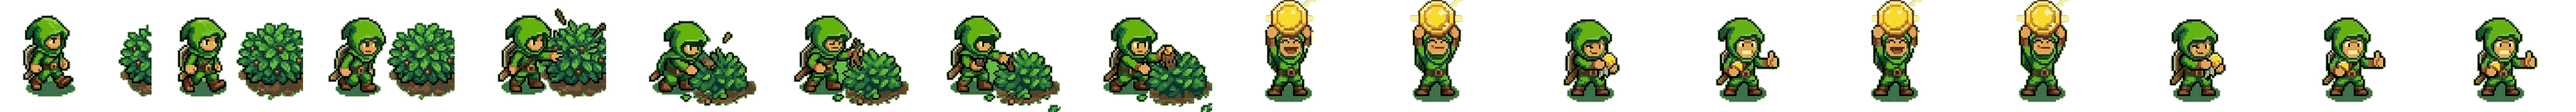
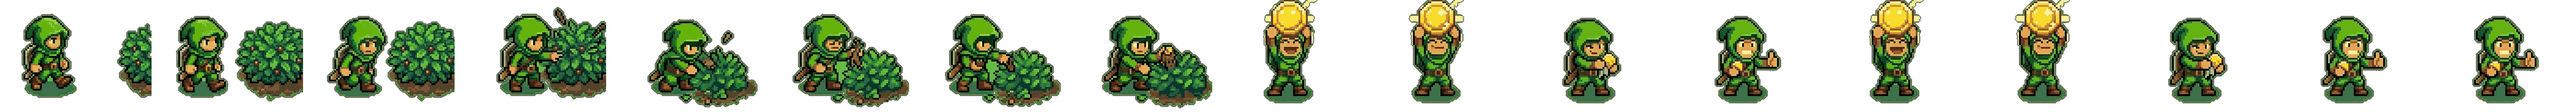
Wipe stray corner grass on forage frames 5-7 and fade the splash sprite edges with a soft RGBA overlay.

diff --git a/src/app/globals.css b/src/app/globals.css
@@ -1939,12 +1939,7 @@ vercel-live-feedback,
   position: relative;
   display: block;
   width: 100%;
-  filter:
-    drop-shadow(0 10px 4px rgb(0 0 0 / 1))
-    drop-shadow(0 22px 12px rgb(0 0 0 / 1))
-    drop-shadow(0 44px 28px rgb(0 0 0 / 0.96))
-    drop-shadow(0 80px 56px rgb(0 0 0 / 0.88))
-    drop-shadow(0 120px 90px rgb(0 0 0 / 0.7));
+  filter: none;
 }
 
 .forager-forage-sprite-hero .forager-forage-shadow::before,
@@ -1952,42 +1947,69 @@ vercel-live-feedback,
   content: '';
   position: absolute;
   pointer-events: none;
-  z-index: 0;
   border-radius: 50%;
 }
 
 .forager-forage-sprite-hero .forager-forage-shadow::before {
-  left: 6%;
-  right: 6%;
-  bottom: -4%;
-  height: 38%;
+  z-index: 0;
+  left: 10%;
+  right: 8%;
+  bottom: -6%;
+  height: 28%;
   background: radial-gradient(
-    ellipse at center,
-    rgb(0 0 0 / 1) 0%,
-    rgb(0 0 0 / 0.82) 38%,
-    rgb(0 0 0 / 0.4) 62%,
-    transparent 78%
+    ellipse at 50% 42%,
+    rgb(0 0 0 / 0.42) 0%,
+    rgb(0 0 0 / 0.18) 44%,
+    rgb(0 0 0 / 0.05) 70%,
+    transparent 86%
   );
 }
 
 .forager-forage-sprite-hero .forager-forage-shadow::after {
-  left: 18%;
-  right: 18%;
-  bottom: 2%;
-  height: 22%;
+  z-index: 2;
+  inset: -6% -8% -14%;
+  height: auto;
   background: radial-gradient(
-    ellipse at center,
-    rgb(0 0 0 / 1),
-    rgb(0 0 0 / 0.55) 50%,
-    transparent 74%
+    ellipse 78% 72% at 52% 46%,
+    transparent 42%,
+    rgb(0 0 0 / 0.1) 64%,
+    rgb(0 0 0 / 0.38) 84%,
+    rgb(0 0 0 / 0.72) 100%
   );
 }
 
 .forager-forage-sprite-hero .forager-forage-frame {
   overflow: hidden;
   background: transparent;
-  -webkit-mask-image: none;
-  mask-image: none;
+  -webkit-mask-image: radial-gradient(
+    ellipse 88% 84% at 52% 48%,
+    #000 56%,
+    rgb(0 0 0 / 0.78) 74%,
+    rgb(0 0 0 / 0.28) 90%,
+    transparent 100%
+  );
+  mask-image: radial-gradient(
+    ellipse 88% 84% at 52% 48%,
+    #000 56%,
+    rgb(0 0 0 / 0.78) 74%,
+    rgb(0 0 0 / 0.28) 90%,
+    transparent 100%
+  );
+}
+
+.forager-forage-sprite-hero .forager-forage-frame::after {
+  content: '';
+  position: absolute;
+  inset: 0;
+  z-index: 2;
+  pointer-events: none;
+  background: radial-gradient(
+    ellipse 82% 78% at 52% 46%,
+    transparent 38%,
+    rgb(0 0 0 / 0.08) 62%,
+    rgb(0 0 0 / 0.34) 86%,
+    rgb(0 0 0 / 0.7) 100%
+  );
 }
 
 .forager-forage-rays {

diff --git a/src/lib/forage-sprite.ts b/src/lib/forage-sprite.ts
@@ -2,7 +2,7 @@ import { withBasePath } from './base-path';
 
 /** Keyed pixel strip for splash (walk / forage / gold, no grass box). */
 export const FORAGE_SPRITE_SRC = withBasePath(
-  '/assets/pics/forager-forage-strip.png',
+  '/assets/pics/forager-forage-strip.png?v=edge3',
 );
 
 export const FORAGE_SPRITE_FRAME_COUNT = 17;

diff --git a/scripts/clean-forage-edges.py b/scripts/clean-forage-edges.py
@@ -1,0 +1,244 @@
+"""Wipe stray corner grass on frames 5-7 and feather strip silhouettes.
+
+Works from the already-keyed strip (does not re-chroma-key from source).
+Run once per keyed strip — a second pass will keep eating the silhouette.
+"""
+
+from __future__ import annotations
+
+from collections import deque
+from pathlib import Path
+
+import numpy as np
+from PIL import Image
+
+ROOT = Path(__file__).resolve().parents[1]
+SRC = ROOT / "public" / "assets" / "pics" / "forager-forage-strip.png"
+PREVIEW_DIR = ROOT / "public" / "assets" / "pics" / "_forage-key-preview"
+
+FRAME_W = 330
+FRAME_H = 246
+IN_FEATHER = 2.6
+OUT_FEATHER = 3.4
+CORNER_FRAMES = (5, 6, 7)
+
+
+def rgb_to_hsv(rgb: np.ndarray) -> tuple[np.ndarray, np.ndarray, np.ndarray]:
+    rgb_f = rgb.astype(np.float32) / 255.0
+    r, g, b = rgb_f[..., 0], rgb_f[..., 1], rgb_f[..., 2]
+    maxc = np.maximum(np.maximum(r, g), b)
+    minc = np.minimum(np.minimum(r, g), b)
+    delta = np.maximum(maxc - minc, 1e-6)
+    h = np.zeros_like(maxc)
+    mask_r = (maxc == r) & (maxc != minc)
+    mask_g = (maxc == g) & (maxc != minc)
+    mask_b = (maxc == b) & (maxc != minc)
+    h[mask_r] = ((g[mask_r] - b[mask_r]) / delta[mask_r]) % 6.0
+    h[mask_g] = (b[mask_g] - r[mask_g]) / delta[mask_g] + 2.0
+    h[mask_b] = (r[mask_b] - g[mask_b]) / delta[mask_b] + 4.0
+    h = h * 60.0
+    s = np.where(maxc <= 1e-6, 0.0, (maxc - minc) / np.maximum(maxc, 1e-6))
+    return h, s, maxc
+
+
+def gold_mask(rgb: np.ndarray) -> np.ndarray:
+    r = rgb[..., 0].astype(np.float32)
+    g = rgb[..., 1].astype(np.float32)
+    b = rgb[..., 2].astype(np.float32)
+    h, s, v = rgb_to_hsv(rgb)
+    return (
+        (h >= 22.0)
+        & (h <= 58.0)
+        & (s >= 0.34)
+        & (v >= 0.42)
+        & (r >= g - 4)
+        & (r > b + 16)
+        & (g > b + 6)
+    )
+
+
+def hood_core_mask(rgb: np.ndarray) -> np.ndarray:
+    r = rgb[..., 0].astype(np.float32)
+    g = rgb[..., 1].astype(np.float32)
+    b = rgb[..., 2].astype(np.float32)
+    h, s, v = rgb_to_hsv(rgb)
+    return (
+        (h >= 62.0)
+        & (h <= 155.0)
+        & (v >= 0.08)
+        & (v <= 0.60)
+        & (s >= 0.14)
+        & (s <= 0.86)
+        & (g + 6 >= r)
+        & (g > b + 2)
+        & (g < 176)
+        & ((g < 168) | (v <= 0.52))
+    )
+
+
+def skin_mask(rgb: np.ndarray) -> np.ndarray:
+    h, s, v = rgb_to_hsv(rgb)
+    return (h >= 14.0) & (h <= 48.0) & (s >= 0.22) & (v >= 0.28) & (v <= 0.92)
+
+
+def protect_core(rgb: np.ndarray) -> np.ndarray:
+    _, _, v = rgb_to_hsv(rgb)
+    return gold_mask(rgb) | hood_core_mask(rgb) | skin_mask(rgb) | (v < 0.16)
+
+
+def label_components(keep: np.ndarray) -> tuple[np.ndarray, list[tuple[int, int, int, int, int]]]:
+    height, width = keep.shape
+    labels = np.zeros((height, width), dtype=np.int32)
+    boxes: list[tuple[int, int, int, int, int]] = [(0, 0, 0, 0, 0)]
+    next_id = 1
+    for y in range(height):
+        for x in range(width):
+            if not keep[y, x] or labels[y, x] != 0:
+                continue
+            queue = deque([(y, x)])
+            labels[y, x] = next_id
+            count = 0
+            minx = maxx = x
+            miny = maxy = y
+            while queue:
+                cy, cx = queue.popleft()
+                count += 1
+                minx = min(minx, cx)
+                maxx = max(maxx, cx)
+                miny = min(miny, cy)
+                maxy = max(maxy, cy)
+                for ny, nx in ((cy - 1, cx), (cy + 1, cx), (cy, cx - 1), (cy, cx + 1)):
+                    if ny < 0 or nx < 0 or ny >= height or nx >= width:
+                        continue
+                    if not keep[ny, nx] or labels[ny, nx] != 0:
+                        continue
+                    labels[ny, nx] = next_id
+                    queue.append((ny, nx))
+            boxes.append((minx, miny, maxx, maxy, count))
+            next_id += 1
+    return labels, boxes
+
+
+def wipe_corner_blotch(frame: np.ndarray, index: int) -> np.ndarray:
+    """Remove leftover lime clumps in the far corner, away from the shrub."""
+    out = frame.copy()
+    rgb = out[..., :3].astype(np.float32)
+    alpha = out[..., 3]
+    keep = alpha > 16
+    r, g, b = rgb[..., 0], rgb[..., 1], rgb[..., 2]
+    green = keep & (g > r + 8) & (g > b + 10) & (g > 70)
+
+    yy, xx = np.indices(keep.shape)
+    # Isolated island in the bottom-right (frames 6 and 7).
+    labels, boxes = label_components(keep)
+    drop = np.zeros_like(keep)
+    for label_id, (minx, miny, maxx, maxy, count) in enumerate(boxes):
+        if label_id == 0:
+            continue
+        cx = (minx + maxx) / 2.0
+        cy = (miny + maxy) / 2.0
+        cornerish = minx >= 275 and miny >= 200 and count < 900
+        far = cx >= 290 and cy >= 215 and count < 1200
+        if cornerish or far:
+            drop[labels == label_id] = True
+
+    # Frame 5's blotch is still bridged to the dirt — snip the hanging lime.
+    hanging = np.zeros_like(keep)
+    if index == 5:
+        hanging = green & (xx >= 268) & (yy >= 219)
+    elif index in (6, 7):
+        hanging = green & (xx >= 292) & (yy >= 220)
+
+    kill = drop | hanging
+    out[kill, 3] = 0
+    out[kill, :3] = 0
+    print(
+        f"frame {index:02d} wiped {int(kill.sum())} px "
+        f"(island {int(drop.sum())}, hanging {int(hanging.sum())})"
+    )
+    return out
+
+
+def distance_field(seed: np.ndarray, radius: float) -> np.ndarray:
+    height, width = seed.shape
+    inf = height + width + 8
+    dist = np.full((height, width), inf, dtype=np.float32)
+    dist[seed] = 0.0
+    queue = deque(map(tuple, np.argwhere(seed)))
+    while queue:
+        y, x = queue.popleft()
+        d = dist[y, x]
+        if d >= radius:
+            continue
+        for ny, nx in ((y - 1, x), (y + 1, x), (y, x - 1), (y, x + 1)):
+            if ny < 0 or nx < 0 or ny >= height or nx >= width:
+                continue
+            nd = d + 1.0
+            if nd < dist[ny, nx] and nd <= radius:
+                dist[ny, nx] = nd
+                queue.append((ny, nx))
+    return dist
+
+
+def feather_frame(frame: np.ndarray) -> np.ndarray:
+    rgb = frame[..., :3].copy()
+    alpha_in = frame[..., 3]
+    keep = alpha_in >= 72
+    protect = protect_core(rgb) & (alpha_in >= 40)
+
+    dist_out = distance_field(keep, OUT_FEATHER)
+    dist_in = distance_field(~keep, IN_FEATHER)
+
+    fade_out = np.clip(1.0 - dist_out / OUT_FEATHER, 0.0, 1.0)
+    fade_in = np.clip(dist_in / IN_FEATHER, 0.0, 1.0)
+    fade_in[protect] = 1.0
+    fade_in[~keep] = 0.0
+
+    alpha = np.zeros(keep.shape, dtype=np.float32)
+    alpha[keep] = 255.0 * fade_in[keep]
+    fringe = (~keep) & (dist_out < OUT_FEATHER)
+    alpha[fringe] = 255.0 * fade_out[fringe]
+    alpha[protect] = 255.0
+    alpha = np.clip(np.round(alpha), 0, 255).astype(np.uint8)
+
+    out_rgb = rgb.astype(np.float32)
+    r, g, b = out_rgb[..., 0], out_rgb[..., 1], out_rgb[..., 2]
+    max_rb = np.maximum(r, b)
+    fringe_px = (alpha > 8) & (alpha < 220) & ~protect
+    spill = fringe_px & (g > max_rb + 18)
+    out_rgb[..., 1] = np.where(spill, max_rb + (g - max_rb) * 0.28, g)
+    out_rgb[alpha < 8] = 0
+    return np.dstack([np.clip(out_rgb, 0, 255).astype(np.uint8), alpha])
+
+
+def main() -> None:
+    image = Image.open(SRC).convert("RGBA")
+    arr = np.array(image)
+    height, width = arr.shape[:2]
+    if width % FRAME_W != 0 or height != FRAME_H:
+        raise SystemExit(f"unexpected strip size {width}x{height}")
+
+    frames = []
+    count = width // FRAME_W
+    for index in range(count):
+        frame = arr[:, index * FRAME_W : (index + 1) * FRAME_W]
+        if index in CORNER_FRAMES:
+            frame = wipe_corner_blotch(frame, index)
+        frames.append(feather_frame(frame))
+
+    strip = np.concatenate(frames, axis=1)
+    out = Image.fromarray(strip, mode="RGBA")
+    out.save(SRC, optimize=True)
+    PREVIEW_DIR.mkdir(exist_ok=True)
+    bg = np.full((FRAME_H, FRAME_W, 3), 12, dtype=np.uint8)
+    for index, frame in enumerate(frames):
+        Image.fromarray(frame, mode="RGBA").save(PREVIEW_DIR / f"live-{index:02d}.png")
+        if index in CORNER_FRAMES or index in (0, 8, 16):
+            a = frame[..., 3:4].astype(np.float32) / 255.0
+            comp = frame[..., :3].astype(np.float32) * a + bg.astype(np.float32) * (1.0 - a)
+            Image.fromarray(comp.astype(np.uint8)).save(PREVIEW_DIR / f"blend-{index:02d}.png")
+    print(f"wrote {SRC} ({out.size[0]}x{out.size[1]})")
+
+
+if __name__ == "__main__":
+    main()
